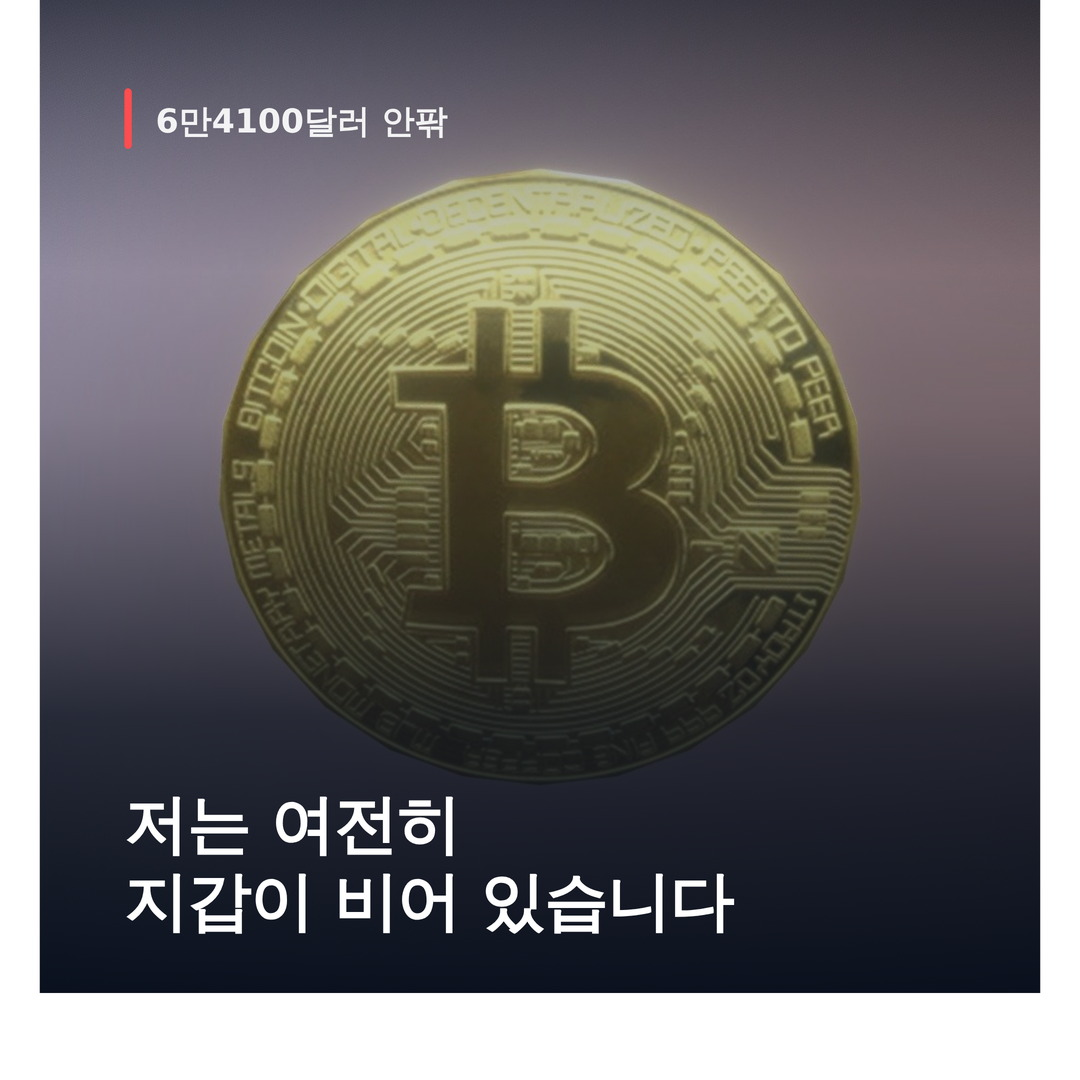
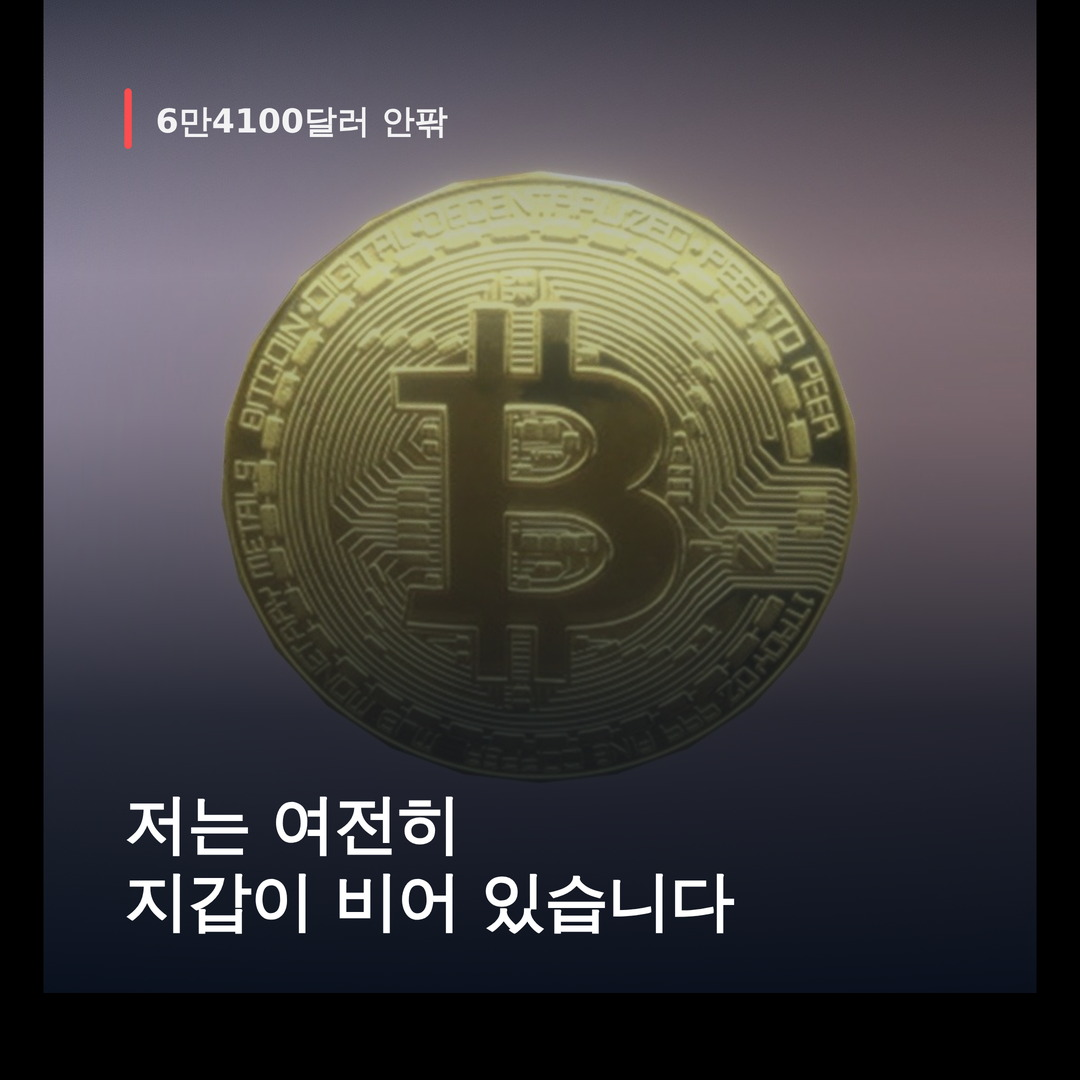
흰 여백 근본 원인 수정 + 로고 회색박스 재수정 (bitcoin 샘플 5장 검증)
원인: convert_svg_to_png()가 .svg 파일을 크로미움에 '문서'로 직접 열었는데,
루트 <svg>에 width/height 속성이 없어(viewBox만 있음) 브라우저가 뷰포트를
정확히 채우지 않고 실제보다 작게 렌더 -> 남는 공간이 기본 흰 배경으로 페이지에
남고 스크롤바까지 찍힘(실측: 2160x2160 스크린샷의 우측·하단 대부분이 흰색).
지난 커밋의 4px bleed 땜질은 이 스크롤 여백엔 무력했음.

수정: SVG를 얇은 HTML 래퍼(margin:0, overflow:hidden, svg{width:100vw;
height:100vh})에 넣어 그 .html을 스크린샷 — 브라우저 버전에 기대지 않는
확실한 full-bleed. 카드 배경 자체(_card_open 등)는 원래 크기(0,0~1080,1080)로
되돌리고 이제 필요 없어진 bleed 임시 코드 전부 제거.

로고 회색박스 재발 원인: bitcoin_1.png가 투명이 아니라 불투명 흰 배경으로
저장된 파일이라(실측 확인) 반투명 워터마크로 얹으면 흰빛이 비쳤음.
진짜 투명배경인 bitcoin_0.png로 교체, tickers/index.json에 주의사항 기록.

output/samples/0802_v3/3의 5장 전부 재빌드 -> 4변 모서리/가장자리 전부
near-white 없음(자동 픽셀 검사 통과), 텍스트 짤림 없음, 카드 디자인은 그대로.
output/0802/*, samples/0802/{1,2,4,5}, samples/0802_v2/* 는 무변경.

Changed region(s): [[0.0, 0.0, 1.0, 1.0], [0.2139, 0.1528, 0.7944, 0.4278]]

diff --git a/_engine/common_utils.py b/_engine/common_utils.py
@@ -35,7 +35,14 @@ def convert_svg_to_png(svg_path, png_path):
     """헤드리스 브라우저로 SVG를 스크린샷 떠서 PNG로 바꾼다.
     (네이버는 SVG 업로드를 거부하므로 항상 PNG로 변환해서 써야 한다)
     브라우저를 못 찾으면 False를 반환한다 — 호출부에서 apt-get/pip 등으로
-    설치를 시도하거나, 실패를 기록하고 다음 이미지로 넘어가야 한다."""
+    설치를 시도하거나, 실패를 기록하고 다음 이미지로 넘어가야 한다.
+
+    ※ .svg 파일을 브라우저에 '문서'로 직접 열면(file:// + 확장자 .svg) 크로미움이
+    루트 <svg>를 항상 뷰포트에 꽉 채워주지 않는다 — 실제 렌더 크기가 window-size보다
+    작게 잡히면서 스크롤 가능한 여백(빈 페이지, 기본 흰 배경)이 오른쪽/아래에 남고
+    스크롤바까지 찍히는 경우가 있었다(실측 확인, 2026-08-02). 그래서 SVG를 얇은 HTML
+    래퍼에 넣고 CSS로 뷰포트에 강제로 꽉 채운 뒤, 그 .html을 스크린샷한다 —
+    브라우저 버전에 기대지 않는 확실한 full-bleed 방법이다."""
     browser = find_browser()
     if not browser:
         print("  [경고] 헤드리스 브라우저를 못 찾아서 SVG->PNG 변환을 건너뜁니다.")
@@ -50,7 +57,17 @@ def convert_svg_to_png(svg_path, png_path):
         w, h = 640, 380
     window_size = f"{int(w)},{int(h)}"
 
-    file_url = "file:///" + os.path.abspath(svg_path).replace("\\", "/")
+    html_path = os.path.splitext(svg_path)[0] + "_wrap.html"
+    html = (
+        "<!doctype html><html><head><meta charset=\"utf-8\"><style>"
+        "html,body{margin:0;padding:0;overflow:hidden;background:#000}"
+        "svg{display:block;width:100vw;height:100vh}"
+        "</style></head><body>" + svg_content + "</body></html>"
+    )
+    with open(html_path, "w", encoding="utf-8") as f:
+        f.write(html)
+
+    file_url = "file:///" + os.path.abspath(html_path).replace("\\", "/")
     cmd = [
         browser,
         "--headless",
@@ -59,6 +76,7 @@ def convert_svg_to_png(svg_path, png_path):
         f"--screenshot={os.path.abspath(png_path)}",
         f"--window-size={window_size}",
         "--force-device-scale-factor=2",
+        "--hide-scrollbars",
         "--default-background-color=FFFFFFFF",
         file_url,
     ]
@@ -68,6 +86,9 @@ def convert_svg_to_png(svg_path, png_path):
     except Exception as e:
         print(f"  [경고] SVG->PNG 변환 실패: {e}")
         return False
+    finally:
+        if os.path.exists(html_path):
+            os.remove(html_path)
 
 
 def escape_html(text):
@@ -197,12 +218,14 @@ def fit_copy_font_size(line1, line2, size=1080, max_fs=92, min_fs=42,
     return fs
 
 
-CARD_BLEED = 4  # 스크린샷 변환 시 반올림으로 흰 테두리가 비치지 않도록 배경을 살짝 넘겨 채운다
-
-
 def _card_open(accent):
-    """4종 카드가 공유하는 배경·그라데이션. 시리즈 통일감의 핵심."""
-    b = CARD_BLEED
+    """4종 카드가 공유하는 배경·그라데이션. 시리즈 통일감의 핵심.
+
+    캔버스를 정확히 0,0~CARD_W,CARD_H로 채운다. 예전엔 스크린샷 시 흰 여백이
+    비치는 걸 막으려 배경을 몇 px 더 크게 그리는 임시방편(bleed)을 썼지만,
+    진짜 원인은 convert_svg_to_png()가 .svg를 문서로 직접 열어 뷰포트를 안
+    꽉 채우던 것이었다 — 그건 HTML 래퍼로 근본 수정했으니 여기서는 다시
+    깔끔하게 정확한 캔버스 크기로만 그린다."""
     return (
         f'<svg viewBox="0 0 {CARD_W} {CARD_H}" xmlns="http://www.w3.org/2000/svg" '
         f'font-family="Pretendard, \'Malgun Gothic\', system-ui, sans-serif">'
@@ -214,7 +237,7 @@ def _card_open(accent):
         f'<stop offset="0%" stop-color="{accent}" stop-opacity="0.16"/>'
         f'<stop offset="100%" stop-color="{accent}" stop-opacity="0"/></radialGradient>'
         '</defs>'
-        f'<rect x="{-b}" y="{-b}" width="{CARD_W+2*b}" height="{CARD_H+2*b}" fill="url(#bg)"/>'
+        f'<rect width="{CARD_W}" height="{CARD_H}" fill="url(#bg)"/>'
         f'<circle cx="{CARD_W-40}" cy="-40" r="620" fill="url(#glow)"/>'
     )
 
@@ -365,7 +388,7 @@ def build_stock_thumbnail_svg(line1, line2, price="", delta="", down=True,
         f'<stop offset="100%" stop-color="#05080f" stop-opacity="0.86"/></linearGradient>'
         '</defs>'
     )
-    p.append(f'<rect x="-4" y="-4" width="{size+8}" height="{size+8}" fill="url(#sbg)"/>')
+    p.append(f'<rect width="{size}" height="{size}" fill="url(#sbg)"/>')
 
     # 배경 로고 워터마크 (있을 때). 정사각 박스 + 판(plate) 없이 로고만 얹는다 —
     # 이전엔 폭이 2배 넓은 박스에 원형 로고를 'meet'로 맞추다 보니 로고 양옆으로
@@ -491,9 +514,9 @@ def build_thumbnail_svg(photo_path, line1, line2, brand="", tagline="",
         '<stop offset="100%" stop-color="#000000" stop-opacity="0.52"/></linearGradient>'
         '</defs>'
     )
-    p.append(f'<image href="{uri}" x="-4" y="-4" width="{size+8}" height="{size+8}" '
+    p.append(f'<image href="{uri}" x="0" y="0" width="{size}" height="{size}" '
              f'preserveAspectRatio="xMidYMid slice"/>')
-    p.append(f'<rect x="-4" y="-4" width="{size+8}" height="{size+8}" fill="url(#tscrim)"/>')
+    p.append(f'<rect width="{size}" height="{size}" fill="url(#tscrim)"/>')
     # 배경이 시끄러운 사진(웨이퍼·전광판 등)은 dim을 올려 글자와의 경쟁을 없앤다
     if dim > 0:
         p.append(f'<rect width="{size}" height="{size}" fill="#050a12" opacity="{dim}"/>')
@@ -558,12 +581,11 @@ def build_photo_card_svg(photo_path, eyebrow, headline_lines, credit="",
         '<stop offset="100%" stop-color="#050d1a" stop-opacity="0"/></linearGradient>'
         '</defs>'
     )
-    # slice = 비율 유지하며 꽉 채우기 (여백 없이 crop). 스크린샷 변환 시 흰 테두리가
-    # 비치지 않도록 캔버스보다 살짝 크게(bleed) 그린다.
-    p.append(f'<image href="{uri}" x="-4" y="-4" width="{CARD_W+8}" height="{CARD_H+8}" '
+    # slice = 비율 유지하며 꽉 채우기 (여백 없이 crop)
+    p.append(f'<image href="{uri}" x="0" y="0" width="{CARD_W}" height="{CARD_H}" '
              f'preserveAspectRatio="xMidYMid slice"/>')
-    p.append(f'<rect x="-4" y="-4" width="{CARD_W+8}" height="{CARD_H+8}" fill="url(#scrim)"/>')
-    p.append(f'<rect x="-4" y="-4" width="{CARD_W+8}" height="300" fill="url(#topfade)"/>')
+    p.append(f'<rect width="{CARD_W}" height="{CARD_H}" fill="url(#scrim)"/>')
+    p.append(f'<rect width="{CARD_W}" height="300" fill="url(#topfade)"/>')
 
     p.append(logo_tag(logo_path, CARD_W - 88 - 260, 84, 260, 78))
     p.append(f'<rect x="88" y="96" width="8" height="66" rx="4" fill="{accent}"/>')
